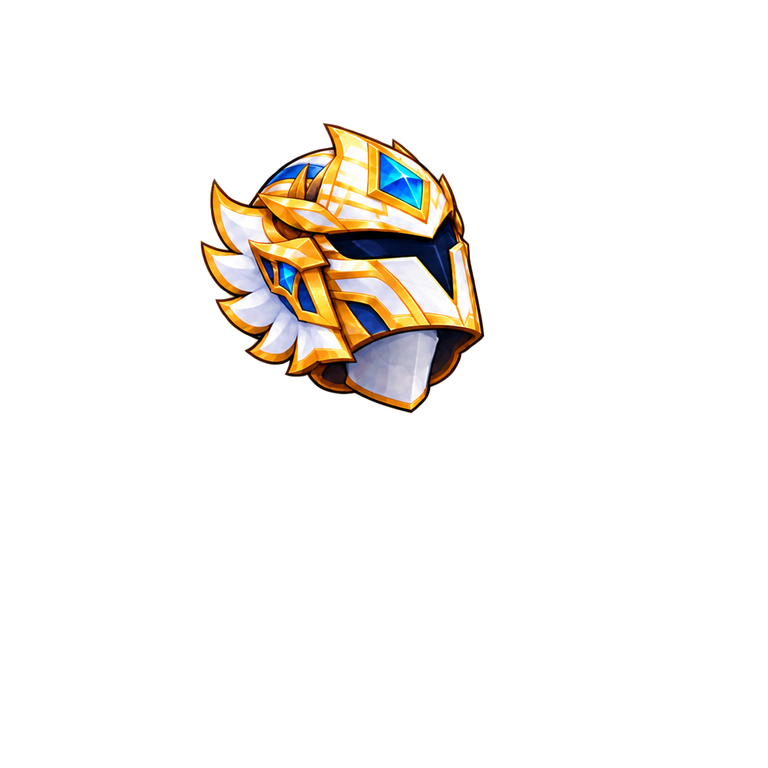
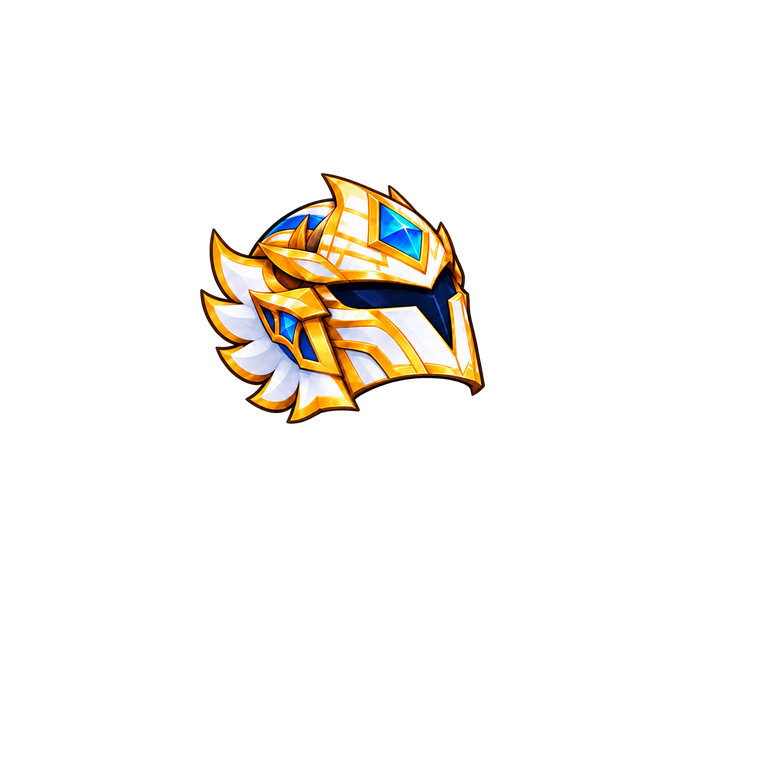
graphics: publish approved Azure death01 chin removal and placement

Changed region(s): [[0.25, 0.1562, 0.6562, 0.5625]]

diff --git a/docs/hero-v5-azure-fullface-production/DEATH_R3.md b/docs/hero-v5-azure-fullface-production/DEATH_R3.md
@@ -1,0 +1,3 @@
+# Azure death01 R3 — approved
+
+LOW risk, graphics only. User approved complete removal of chin extension and lowering the helmet to native art top-left200,173, width285. Replaces only death_01/helmet.png; manifest cache revision azure_angel_fullface_death_r3. Other seven helmet frames, all other assets and runtime preserved. NativeRGBA768 clean alpha/no border clipping PASS. R2 workflow verifies4changed objects: PNG, manifest, publication and validation. No in-game QA claimed.
